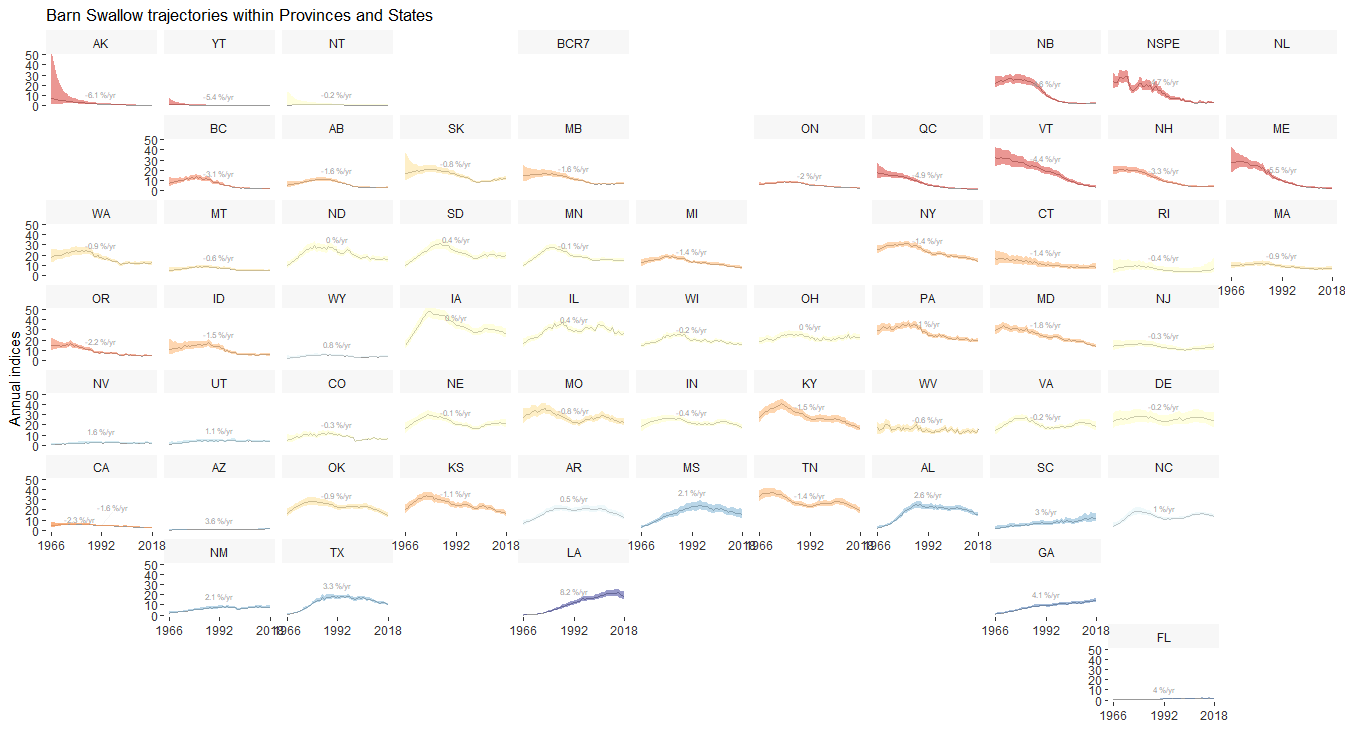
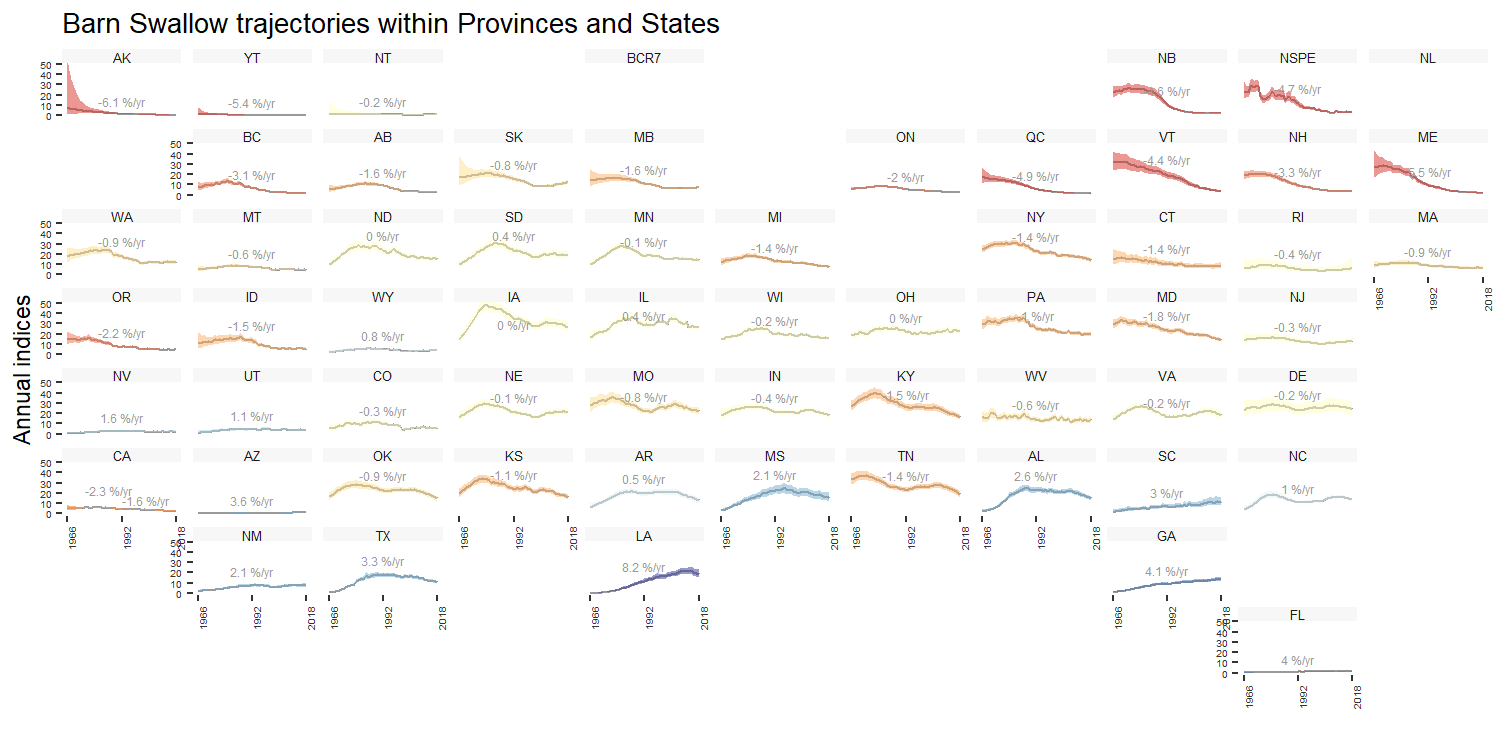
Tidying the examples and documentation. tidying the model files and adding the ability to generate smooth-only trends from the slope model.

diff --git a/README.md b/README.md
@@ -96,7 +96,7 @@ jags_mod$Rhat # shows the Rhat values for each monitored parameter
 If important monitored parameters have not converged, we recommend inspecting the model diagnostics with the package ggmcmc. 
 ``` r 
 install.packages("ggmcmc")
-S <- ggmcmc::ggs(jags_mod$samples,family = "B.X")
+S <- ggmcmc::ggs(jags_mod$samples,family = "B.X") #samples object is an mcmc.list object
 ggmcmc::ggmcmc(S,family = "B.X") ## this will output a pdf with a series of plots useful for assessing convergence. Be warned this function will be overwhelmed if trying to handle all of the n values from a BBS analysis of a broad-ranged species
 ```
 
@@ -116,7 +116,7 @@ indices <- generate_regional_indices(jags_mod = jags_mod,
                                      "national",
                                      "prov_state",
                                      "stratum"))
-                                     #also "bcr", "bcr_by_country",
+                                     #also "bcr", "bcr_by_country"
 ```
 
 #### Population Trends
@@ -179,7 +179,9 @@ For stratifications that can be compiled by political regions (i.e., `bbs_cws`, 
                      slope = F,
                      species = "Barn Swallow")
   
+  #png("BARS_geofacet.png",width = 1500, height = 750,res = 150)
   print(gf)
+  #dev.off()
   ```
 <img src="man/figures/BARS_geofacet.png" />
 
